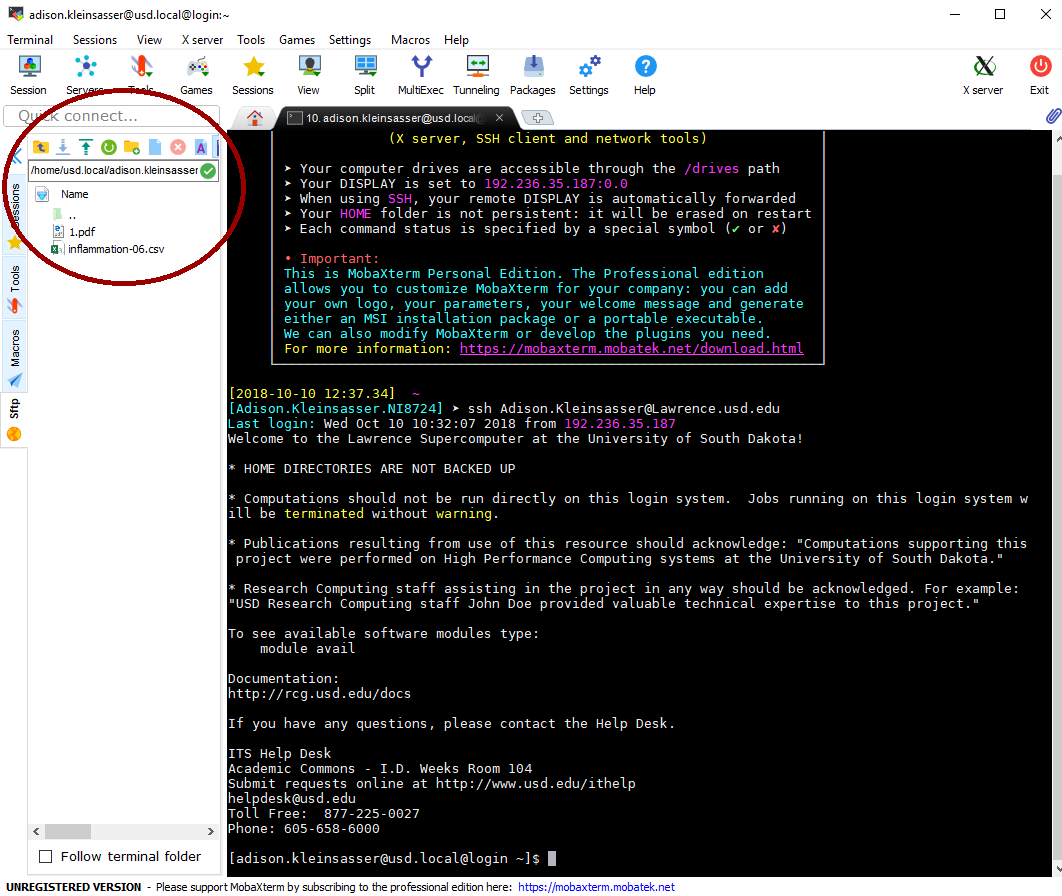
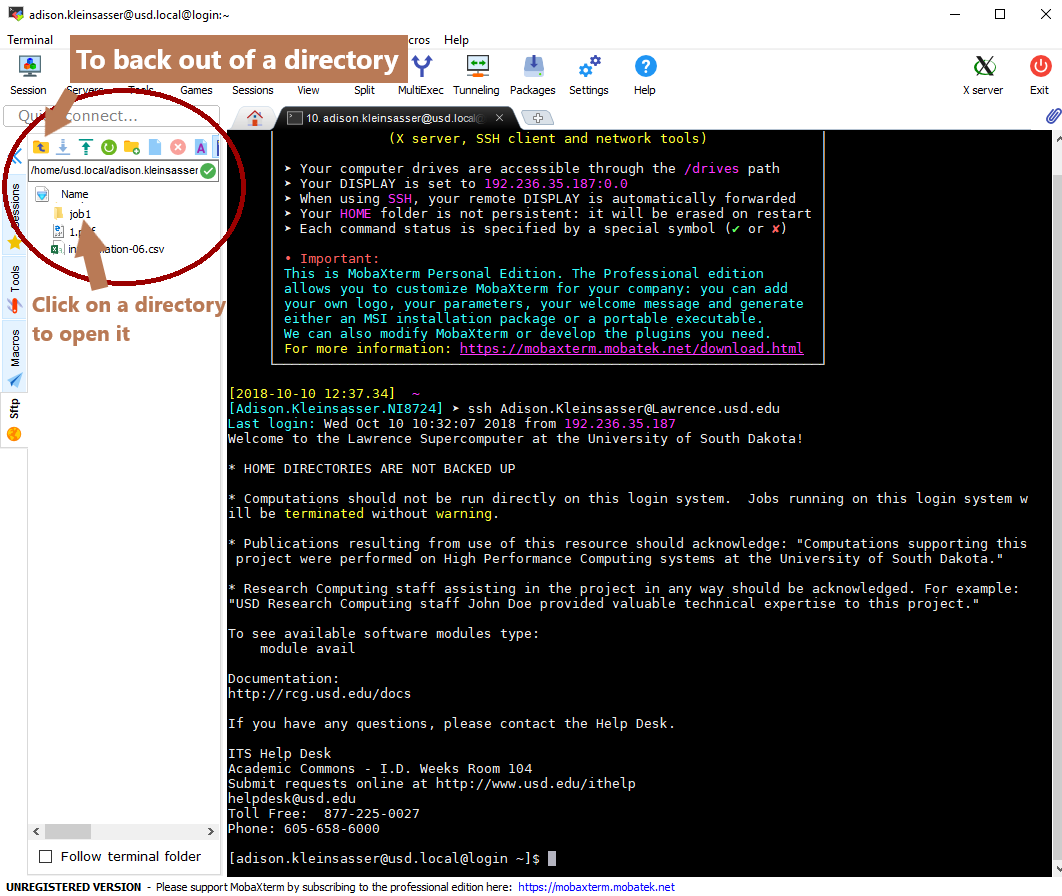
GitBook: [master] 2 pages and 2 assets modified

Changed region(s): [[0.0311, 0.0312, 0.404, 0.1562], [0.0311, 0.2188, 0.2175, 0.4062]]

diff --git a/software-and-apps/gaussview-gui.md b/software-and-apps/gaussview-gui.md
@@ -43,6 +43,22 @@ Welcome to the Lawrence Supercomputer at the University of South Dakota!
 [user.name@usd.local@login ~]$
 ```
 
+## Transferring Files \(Lawrence to & from PC\)
+
+In MobaX, the file explorer/hierarchy is visible just to the left of the command line interface. Navigate into directories by clicking on them, and out of directories using the "parent directory" button.
+
+{% hint style="warning" %}
+Note: entering/exiting a directory in this area doesn't change your current directory \(you'll still be in the same directory as before in the command line\).  Use the cd command to navigate directories in the command line.
+{% endhint %}
+
+![](../.gitbook/assets/screenshot-10%20%281%29.png)
+
+From this section of the MobaX window, you can drag and drop files between Lawrence and your PC as needed.
+
+![](../.gitbook/assets/mobaxmovingfile.png)
+
+![](../.gitbook/assets/screenshot-8.png)
+
 ## Interactive Jobs
 
 Open MobaX and **log into Lawrence** \(see section "Getting Started"\).  

diff --git a/lawrence-hpc/transferring-files.md b/lawrence-hpc/transferring-files.md
@@ -14,7 +14,7 @@ For help downloading MobaXterm, click [here](https://usdrcg.gitbook.io/docs/~/ed
 
 In MobaXterm, the file explorer/hierarchy is visible just to the left of the command line interface.
 
-![](../.gitbook/assets/screenshot-10%20%281%29.png)
+![](../.gitbook/assets/screenshot-10%20%282%29.png)
 
 From this section of the MobaXterm window, you can drag and drop files between either computer as you desire.
 
